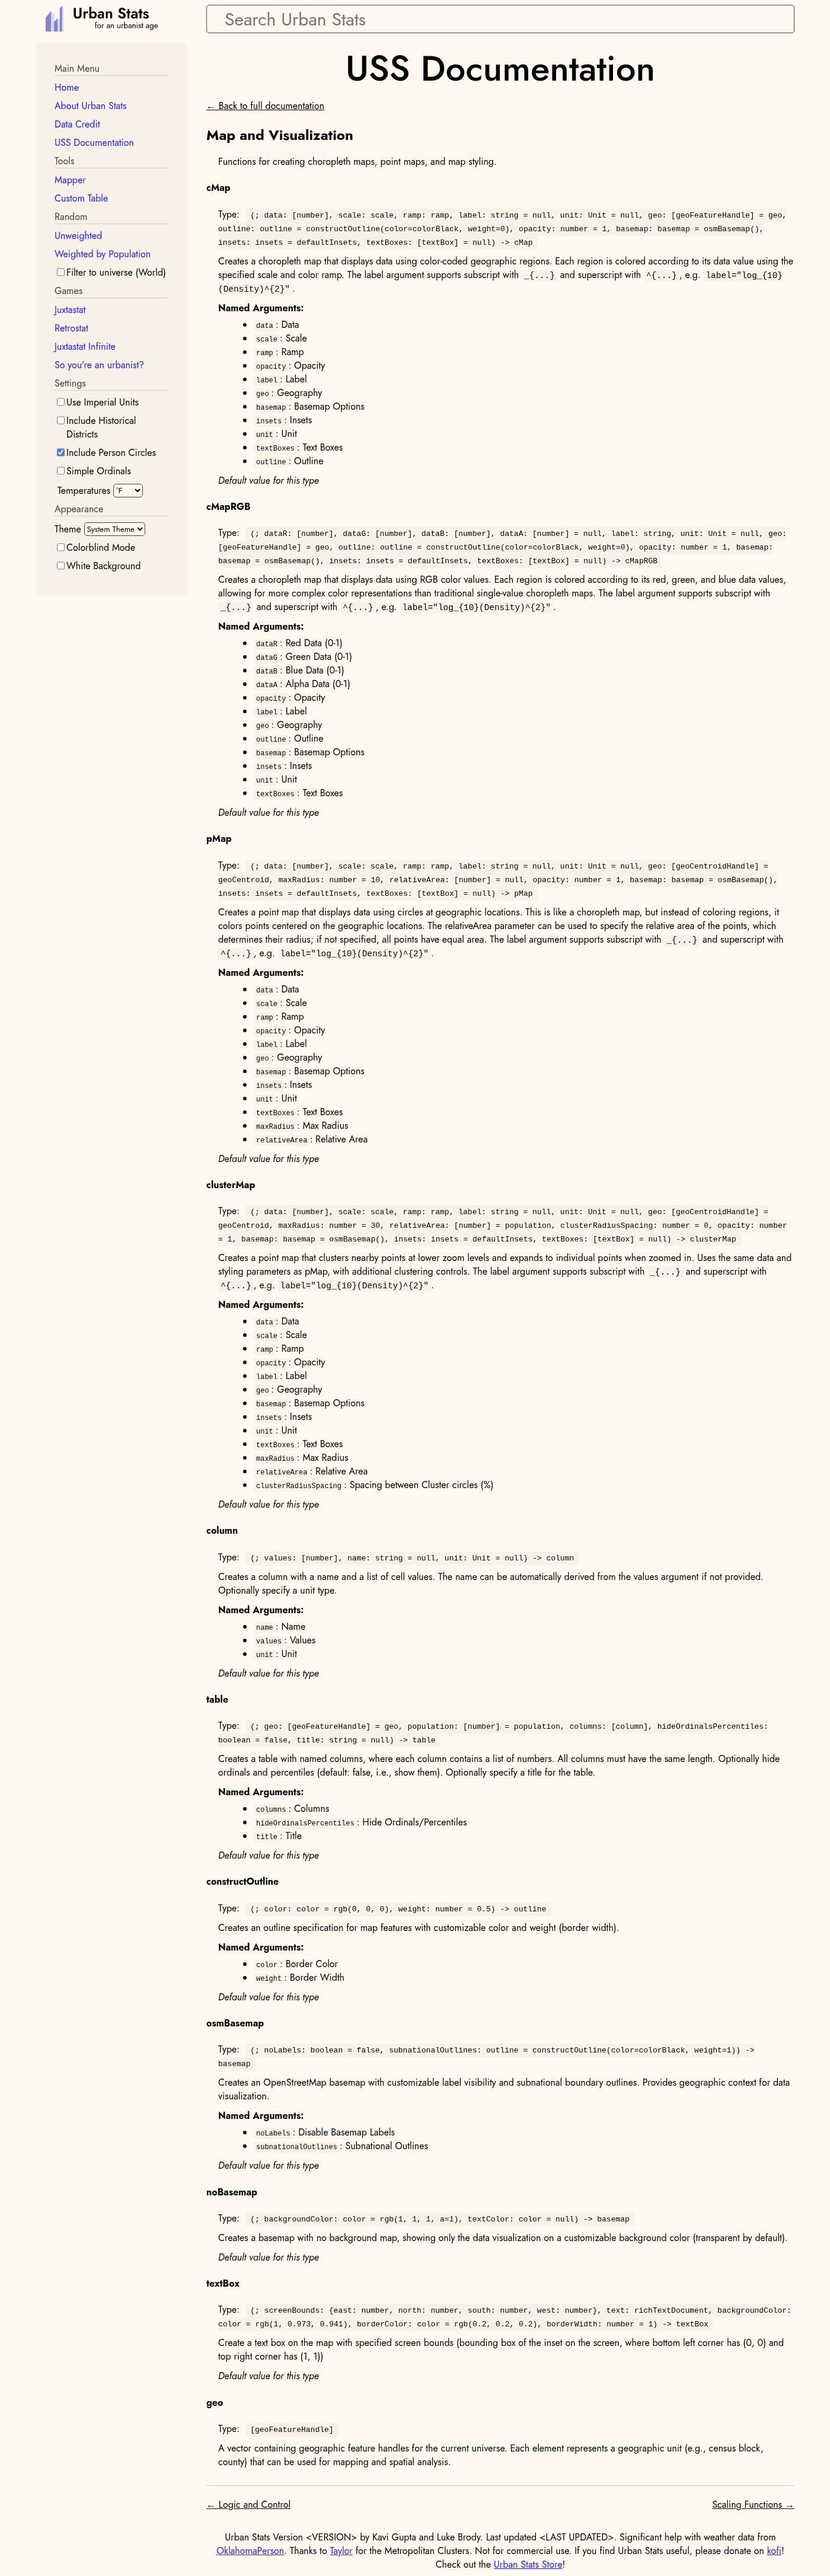
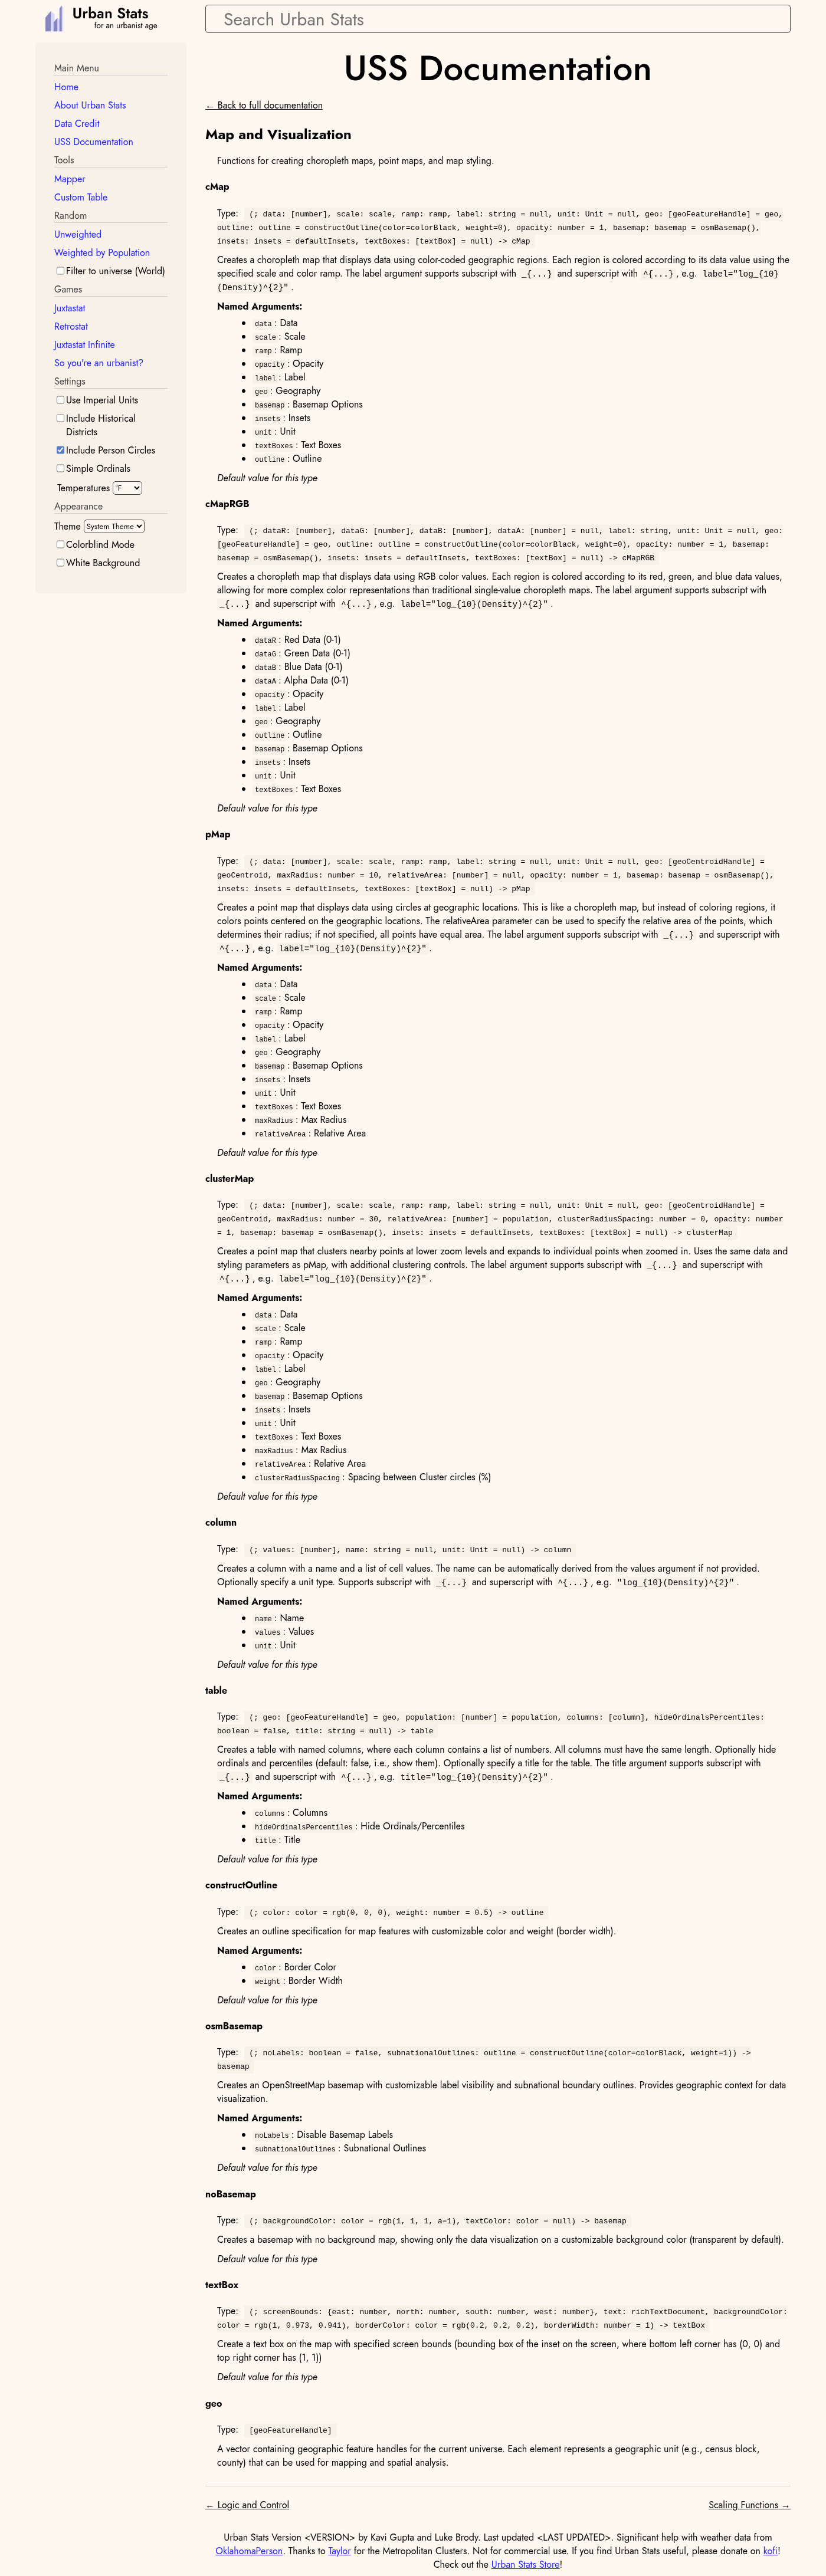
Implement sub/superscript support for stats table title/column names (#2075)

Pull request: Implement sub/superscript support for stats table title/column names

diff --git a/react/unit/urban-stats-script-evaluate.test.ts b/react/unit/urban-stats-script-evaluate.test.ts
@@ -2379,7 +2379,7 @@ void test('test basic column with name', () => {
     const resultColumn = evaluate(parseExpr('column(values=[1, 2, 3], name="Test Column")'), ctx)
     assert.deepStrictEqual(resultColumn.type, { type: 'opaque', name: 'column' })
     const resultColumnRaw = (resultColumn.value as { type: 'opaque', value: TableColumn }).value
-    assert.deepStrictEqual(resultColumnRaw.name, 'Test Column')
+    assert.deepStrictEqual(resultColumnRaw.name, [{ type: 'atom', value: 'Test Column' }])
     assert.deepStrictEqual(resultColumnRaw.values, [1, 2, 3])
     assert.deepStrictEqual(resultColumnRaw.unit, undefined)
     assert.deepStrictEqual(effects, [])
@@ -2409,7 +2409,7 @@ void test('test column with unit', () => {
     const resultColumn = evaluate(parseExpr('column(values=[1, 2, 3], name="Population", unit=unitPopulation)'), ctx)
     assert.deepStrictEqual(resultColumn.type, { type: 'opaque', name: 'column' })
     const resultColumnRaw = (resultColumn.value as { type: 'opaque', value: TableColumn }).value
-    assert.deepStrictEqual(resultColumnRaw.name, 'Population')
+    assert.deepStrictEqual(resultColumnRaw.name, [{ type: 'atom', value: 'Population' }])
     assert.deepStrictEqual(resultColumnRaw.values, [1, 2, 3])
     assert.deepStrictEqual(resultColumnRaw.unit, 'population')
     assert.deepStrictEqual(effects, [])
@@ -2430,9 +2430,31 @@ void test('test basic table', () => {
     assert.deepStrictEqual(resultTableRaw.geo, ['A', 'B', 'C'])
     assert.deepStrictEqual(resultTableRaw.population, [100, 200, 300])
     assert.deepStrictEqual(resultTableRaw.columns.length, 1)
-    assert.deepStrictEqual(resultTableRaw.columns[0].name, 'Col1')
+    assert.deepStrictEqual(resultTableRaw.columns[0].name, [{ type: 'atom', value: 'Col1' }])
     assert.deepStrictEqual(resultTableRaw.columns[0].values, [1, 2, 3])
     assert.deepStrictEqual(resultTableRaw.columns[0].populationPercentiles, [0, 16, 50])
+    assert.deepStrictEqual(effects, [])
+})
+
+void test('test column name and table title with subscript syntax are parsed as hre', () => {
+    const effects: Effect[] = []
+    const ctx = emptyContextWithInsets(effects)
+    ctx.assignVariable('population', {
+        type: { type: 'vector', elementType: numType },
+        value: [100, 200, 300],
+        documentation: { humanReadableName: 'Population' },
+    })
+    const resultTable = evaluate(parseExpr('table(columns=[column(values=[1, 2, 3], name="log_{10}(x)")], title="Table^{2}")'), ctx)
+    const resultTableRaw = (resultTable.value as { type: 'opaque', value: Table }).value
+    assert.deepStrictEqual(resultTableRaw.columns[0].name, [
+        { type: 'atom', value: 'log' },
+        { type: 'subscript', value: [{ type: 'atom', value: '10' }] },
+        { type: 'atom', value: '(x)' },
+    ])
+    assert.deepStrictEqual(resultTableRaw.title, [
+        { type: 'atom', value: 'Table' },
+        { type: 'superscript', value: [{ type: 'atom', value: '2' }] },
+    ])
     assert.deepStrictEqual(effects, [])
 })
 
@@ -2450,10 +2472,10 @@ void test('test table with multiple columns', () => {
     assert.deepStrictEqual(resultTableRaw.geo, ['A', 'B', 'C'])
     assert.deepStrictEqual(resultTableRaw.population, [100, 200, 300])
     assert.deepStrictEqual(resultTableRaw.columns.length, 2)
-    assert.deepStrictEqual(resultTableRaw.columns[0].name, 'Col1')
+    assert.deepStrictEqual(resultTableRaw.columns[0].name, [{ type: 'atom', value: 'Col1' }])
     assert.deepStrictEqual(resultTableRaw.columns[0].values, [1, 2, 3])
     assert.deepStrictEqual(resultTableRaw.columns[0].populationPercentiles, [0, 16, 50])
-    assert.deepStrictEqual(resultTableRaw.columns[1].name, 'Col2')
+    assert.deepStrictEqual(resultTableRaw.columns[1].name, [{ type: 'atom', value: 'Col2' }])
     assert.deepStrictEqual(resultTableRaw.columns[1].values, [5, 6, 4])
     assert.deepStrictEqual(resultTableRaw.columns[1].populationPercentiles, [50, 66, 0])
     assert.deepStrictEqual(effects, [])
@@ -2468,7 +2490,7 @@ void test('test table with non-default population', () => {
     assert.deepStrictEqual(resultTableRaw.geo, ['A', 'B', 'C'])
     assert.deepStrictEqual(resultTableRaw.population, [100, 200, 300])
     assert.deepStrictEqual(resultTableRaw.columns.length, 1)
-    assert.deepStrictEqual(resultTableRaw.columns[0].name, 'Col1')
+    assert.deepStrictEqual(resultTableRaw.columns[0].name, [{ type: 'atom', value: 'Col1' }])
     assert.deepStrictEqual(resultTableRaw.columns[0].values, [1, 2, 3])
     assert.deepStrictEqual(effects, [])
 })
@@ -2569,7 +2591,7 @@ void test('test conditional table', () => {
     const resultTable = execute(parseProgram('condition (population > 100); table(columns=[column(values=[1, 2], name="Col1")])'), ctx)
     assert.deepStrictEqual(resultTable.type, { type: 'opaque', name: 'table' })
     const resultTableRaw = (resultTable.value as { type: 'opaque', value: Table }).value
-    assert.deepStrictEqual(resultTableRaw.columns[0].name, 'Col1')
+    assert.deepStrictEqual(resultTableRaw.columns[0].name, [{ type: 'atom', value: 'Col1' }])
     assert.deepStrictEqual(resultTableRaw.geo, ['B', 'C'])
     assert.deepStrictEqual(resultTableRaw.columns[0].values, [1, 2])
     assert.deepStrictEqual(resultTableRaw.columns[0].populationPercentiles, [0, 40])

diff --git a/react/src/urban-stats-script/constants/table.ts b/react/src/urban-stats-script/constants/table.ts
@@ -1,5 +1,6 @@
 import { assert } from '../../utils/defensive'
-import { HumanReadableName } from '../../utils/human-readable-name'
+import { HumanReadableName, reifyString } from '../../utils/human-readable-name'
+import { hre, parseHumanReadableTemplate } from '../../utils/human-readable-template'
 import { UnitType } from '../../utils/unit'
 import { Context } from '../context'
 import { noLocation } from '../location'
@@ -20,7 +21,7 @@ export interface Table {
     geo: string[]
     population: number[]
     hideOrdinalsPercentiles: boolean
-    title?: string
+    title?: HumanReadableName
 }
 
 const columnType = {
@@ -32,6 +33,8 @@ export const tableType = {
     type: 'opaque',
     name: 'table',
 } satisfies USSType
+
+const nameSyntaxDescription = hre`Supports subscript with \`_{...}\` and superscript with \`^{...}\`, e.g. \`"log_{10}(Density)^{2}"\`.`
 
 export const column: USSValue = {
     type: {
@@ -60,7 +63,8 @@ export const column: USSValue = {
         const unit = unitArg ? (unitArg.value.unit as UnitType) : undefined
 
         // Derive name from values argument's documentation if not provided
-        const name = namePassedIn ?? originalArgs.namedArgs.values.documentation?.humanReadableName
+        const humanReadableName = originalArgs.namedArgs.values.documentation?.humanReadableName
+        const name: HumanReadableName | undefined = namePassedIn !== null ? parseHumanReadableTemplate(namePassedIn) : humanReadableName
 
         if (name === undefined) {
             ctx.effect({
@@ -85,9 +89,11 @@ export const column: USSValue = {
             values: 'Values',
             unit: 'Unit',
         },
-        longDescription: 'Creates a column with a name and a list of cell values. The name can be automatically derived from the values argument if not provided. Optionally specify a unit type.',
+        longDescription: hre`Creates a column with a name and a list of cell values. The name can be automatically derived from the values argument if not provided. Optionally specify a unit type. ${nameSyntaxDescription}`,
     },
 } satisfies USSValue
+
+const titleSyntaxDescription = hre`The title argument supports subscript with \`_{...}\` and superscript with \`^{...}\`, e.g. \`title="log_{10}(Density)^{2}"\`.`
 
 export const table: USSValue = {
     type: {
@@ -148,7 +154,7 @@ export const table: USSValue = {
             const firstLength = columns[0].values.length
             for (let i = 1; i < columns.length; i++) {
                 if (columns[i].values.length !== firstLength) {
-                    throw new Error(`All columns must have the same length. Column "${columns[0].name}" has length ${firstLength}, but column "${columns[i].name}" has length ${columns[i].values.length}`)
+                    throw new Error(`All columns must have the same length. Column "${reifyString(columns[0].name)}" has length ${firstLength}, but column "${reifyString(columns[i].name)}" has length ${columns[i].values.length}`)
                 }
             }
         }
@@ -158,13 +164,14 @@ export const table: USSValue = {
         }
 
         const hideOrdinalsPercentiles = namedArgs.hideOrdinalsPercentiles as boolean
-        const title = namedArgs.title as string | null
+        const titlePassedIn = namedArgs.title as string | null
+        const title = titlePassedIn !== null ? parseHumanReadableTemplate(titlePassedIn) : undefined
         const annotatedColumns = columns.map(col => attachPopulationPercentilesToColumn(col, population))
 
         return {
             type: 'opaque',
             opaqueType: 'table',
-            value: { columns: annotatedColumns, geo, population, hideOrdinalsPercentiles, title: title ?? undefined } satisfies Table,
+            value: { columns: annotatedColumns, geo, population, hideOrdinalsPercentiles, title } satisfies Table,
         }
     },
     documentation: {
@@ -176,7 +183,7 @@ export const table: USSValue = {
             hideOrdinalsPercentiles: 'Hide Ordinals/Percentiles',
             title: 'Title',
         },
-        longDescription: 'Creates a table with named columns, where each column contains a list of numbers. All columns must have the same length. Optionally hide ordinals and percentiles (default: false, i.e., show them). Optionally specify a title for the table.',
+        longDescription: hre`Creates a table with named columns, where each column contains a list of numbers. All columns must have the same length. Optionally hide ordinals and percentiles (default: false, i.e., show them). Optionally specify a title for the table. ${titleSyntaxDescription}`,
     },
 } satisfies USSValue
 

diff --git a/react/test/statistics.test.ts b/react/test/statistics.test.ts
@@ -1216,3 +1216,26 @@ test('assignments displayed on error result', async (t) => {
     await t.wait(1000)
     await t.expect(Selector('pre').withExactText('1').count).eql(1)
 })
+
+const humanReadableTable = `table(
+    columns=[
+        column(
+            values=(density_pw_1km / density_pw_2km),
+            name="Density_{ratio}",
+            unit=unitNumber
+        )
+    ],
+    title="Density^{2}_{Test}"
+)`
+
+urbanstatsFixture('table with subscript/superscript syntax', createUSSStatisticsPage(humanReadableTable))
+
+test('table title and column name render subscript and superscript', async (t) => {
+    await waitForLoading()
+    const title = Selector('.subheadertext')
+    await t.expect(title.child('sup').withExactText('2').exists).ok()
+    await t.expect(title.child('sub').withExactText('Test').exists).ok()
+    const columnHeader = Selector('[data-test-id="statistic-link"]').withText(/Density/)
+    await t.expect(columnHeader.find('sub').withExactText('ratio').exists).ok()
+    await screencap(t)
+})

diff --git a/react/src/stat/useStatGenerator.ts b/react/src/stat/useStatGenerator.ts
@@ -14,6 +14,7 @@ import { noLocation } from '../urban-stats-script/location'
 import { renderType } from '../urban-stats-script/types-values'
 import { AssignmentsResult, executeAsync } from '../urban-stats-script/workerManager'
 import { assert } from '../utils/defensive'
+import { HumanReadableElement, HumanReadableName } from '../utils/human-readable-name'
 import { pluralize } from '../utils/text'
 import { useDebouncedResolve } from '../utils/useDebouncedResolve'
 
@@ -121,7 +122,7 @@ async function makeStatGenerator({ stat, previousGenerator }: { stat: Statistic,
         const statData: StatData = {
             table: dataColumns,
             articleNames: geonames,
-            renderedStatname: table.title ?? table.columns.map(col => col.name).join(', '),
+            renderedStatname: table.title ?? joinHumanReadableNames(table.columns.map(col => col.name)),
             totalCountInClass: firstColumn.values.length,
             totalCountOverall: firstColumn.values.length,
             hideOrdinalsPercentiles: table.hideOrdinalsPercentiles,
@@ -156,6 +157,13 @@ function checkArticleCount(counts: CountsByUT, universe: Universe, articleType: 
         return [{ type: 'error', value: `There are no ${pluralize(articleType)} in ${universe}. Either adjust your universe or geography kind.`, location: noLocation, kind: 'error' }]
     }
     return []
+}
+
+function joinHumanReadableNames(names: HumanReadableName[]): HumanReadableName {
+    return names.flatMap((name, index): HumanReadableElement[] => {
+        const elements = typeof name === 'string' ? [{ type: 'atom', value: name } satisfies HumanReadableElement] : name
+        return index === 0 ? elements : [{ type: 'atom', value: ', ' }, ...elements]
+    })
 }
 
 function computeOrdinals(values: number[]): number[] {

diff --git a/react/src/stat/StatisticPanelPage.tsx b/react/src/stat/StatisticPanelPage.tsx
@@ -15,6 +15,7 @@ import { tableType } from '../urban-stats-script/constants/table'
 import { EditorError } from '../urban-stats-script/editor-utils'
 import { TypeEnvironment } from '../urban-stats-script/types-values'
 import { AssignmentsResult } from '../urban-stats-script/workerManager'
+import { reifyReact, reifyString } from '../utils/human-readable-name'
 import { tableToMapper } from '../utils/page-conversion'
 import { sanitize } from '../utils/paths'
 import { useHeaderTextClass, useSubHeaderTextClass } from '../utils/responsive'
@@ -48,18 +49,18 @@ export function StatisticPanelPage({ view, stat, data, set, loading, counts, err
     return (
         <PageTemplate
             screencap={data && ((...args) => createScreenshot({
-                path: `${sanitize(data.renderedStatname)}.png`,
+                path: `${sanitize(reifyString(data.renderedStatname))}.png`,
                 overallWidth: tableRef.current!.offsetWidth * 2,
                 elementsToRender: [headersRef.current!, tableRef.current!],
             }, ...args))}
             csvExportCallback={data && (() => ({
                 csvData: generateStatisticsPanelCSVData(data.articleNames, data.table, data.hideOrdinalsPercentiles),
-                csvFilename: `${sanitize(data.renderedStatname)}.csv`,
+                csvFilename: `${sanitize(reifyString(data.renderedStatname))}.csv`,
             }))}
         >
             <div ref={headersRef} style={{ position: 'relative' }}>
                 <StatisticPanelHead articleType={stat.articleType} universe={stat.universe} />
-                <div className={subHeaderTextClass}>{subHeaderText}</div>
+                <div className={subHeaderTextClass}>{reifyReact(subHeaderText)}</div>
                 {!view.edit && <ViewHeader stat={stat} view={view} set={set} typeEnvironment={typeEnvironment} />}
             </div>
             <div style={{ marginBlockEnd: '16px' }}></div>

diff --git a/react/src/stat/types.ts b/react/src/stat/types.ts
@@ -31,7 +31,7 @@ export interface StatData {
     // One entry per column
     table: { value: number[], populationPercentile: number[], ordinal: number[], name: HumanReadableName, unit?: UnitType }[]
     articleNames: string[]
-    renderedStatname: string
+    renderedStatname: HumanReadableName
     statcol?: StatCol
     explanationPage?: string
     totalCountInClass: number